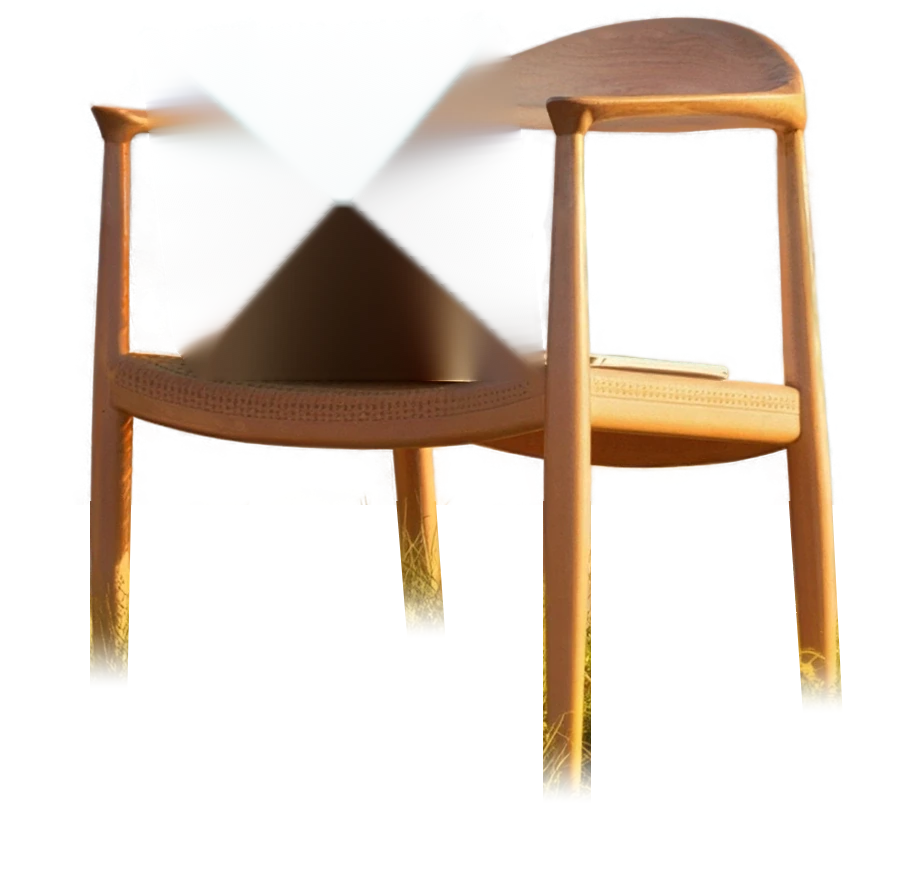
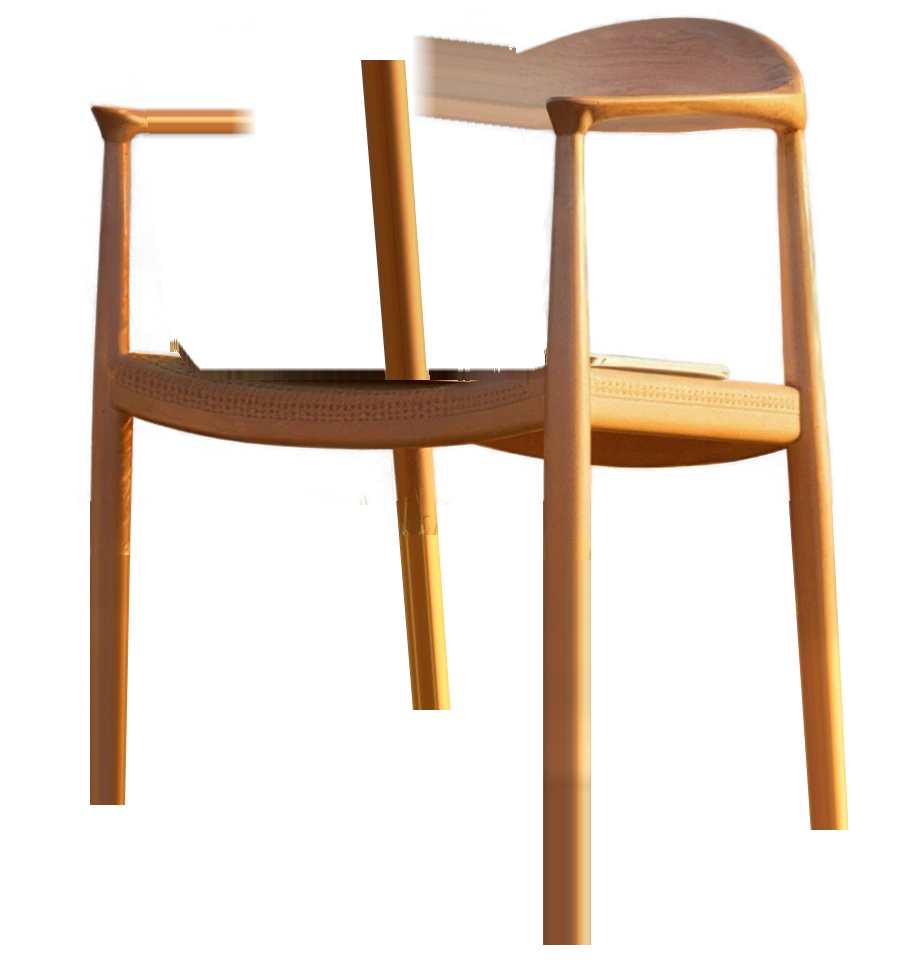
feat(site): make the hero float more noticeable, legs slide out of the grass
Roughly triple the float and speed it up a little. To keep the bigger motion
clean, the chair legs are now solid wood down into the hill, with a static
layer of the grass in front of them on top (hero-grass-front.webp), so they
slide in and out of the grass instead of dragging blades along. The area
behind the laptop now shows what is really there: sky, a strip of seat, the
left rear post, and the armrest and back rail running behind it.

diff --git a/docs/index.html b/docs/index.html
@@ -435,7 +435,9 @@
          Each drifts on its own slow curve: X, Y and tilt run as separate
          properties (transform / translate / rotate) with unrelated
          durations, so the path never quite repeats. The laptop is nested in
-         the chair so it rides along and only ever lifts off the seat. */
+         the chair so it rides along and only ever lifts off the seat. A
+         static layer of the grass in front of the legs sits on top, so the
+         legs slide in and out of the hill. */
       .hero-scene {
         position: absolute;
         bottom: 0;
@@ -449,28 +451,35 @@
         left: calc(1600 / 4096 * 100%);
         top: 0;
         width: calc(920 / 4096 * 100%);
-        transform-origin: 50% 85%;
+        transform-origin: 50% 78%;
         animation:
-          float-lift-chair 14s ease-in-out infinite alternate,
-          float-sway-chair 23s ease-in-out -11.5s infinite alternate,
-          float-tilt-chair 19s ease-in-out -9.5s infinite alternate;
+          float-lift-chair 9s ease-in-out infinite alternate,
+          float-sway-chair 15s ease-in-out -7.5s infinite alternate,
+          float-tilt-chair 12s ease-in-out -6s infinite alternate;
         will-change: transform, translate, rotate;
       }
-      .hero-chair img {
+      .hero-chair img,
+      .hero-grass-front {
         display: block;
         width: 100%;
         height: auto;
       }
+      .hero-grass-front {
+        position: absolute;
+        left: calc(1580 / 4096 * 100%);
+        top: calc(520 / 2006 * 100%);
+        width: calc(960 / 4096 * 100%);
+      }
       .hero-chair .hero-laptop {
         position: absolute;
         left: calc(130 / 920 * 100%);
-        top: calc(10 / 880 * 100%);
+        top: calc(10 / 960 * 100%);
         width: calc(420 / 920 * 100%);
         transform-origin: 50% 100%;
         animation:
-          float-lift-laptop 11s ease-in-out 2s infinite alternate,
-          float-sway-laptop 17s ease-in-out -8.5s infinite alternate,
-          float-tilt-laptop 13s ease-in-out -6.5s infinite alternate;
+          float-lift-laptop 7s ease-in-out 1s infinite alternate,
+          float-sway-laptop 11s ease-in-out -5.5s infinite alternate,
+          float-tilt-laptop 8.5s ease-in-out -4.25s infinite alternate;
         will-change: transform, translate, rotate;
       }
       @keyframes float-lift-chair {
@@ -478,23 +487,23 @@
           translate: 0 0;
         }
         to {
-          translate: 0 -2.8%;
+          translate: 0 -7.5%;
         }
       }
       @keyframes float-sway-chair {
         from {
-          transform: translateX(-1.1%);
+          transform: translateX(-2.8%);
         }
         to {
-          transform: translateX(1.1%);
+          transform: translateX(2.8%);
         }
       }
       @keyframes float-tilt-chair {
         from {
-          rotate: -0.45deg;
+          rotate: -1.2deg;
         }
         to {
-          rotate: 0.45deg;
+          rotate: 1.2deg;
         }
       }
       @keyframes float-lift-laptop {
@@ -502,23 +511,23 @@
           translate: 0 0;
         }
         to {
-          translate: 0 -6%;
+          translate: 0 -14%;
         }
       }
       @keyframes float-sway-laptop {
         from {
-          transform: translateX(-1.6%);
+          transform: translateX(-4%);
         }
         to {
-          transform: translateX(1.6%);
+          transform: translateX(4%);
         }
       }
       @keyframes float-tilt-laptop {
         from {
-          rotate: -0.9deg;
+          rotate: -2.2deg;
         }
         to {
-          rotate: 0.9deg;
+          rotate: 2.2deg;
         }
       }
       .hero-inner {
@@ -1923,7 +1932,7 @@
               <img
                 src="assets/hero-chair.webp"
                 width="920"
-                height="880"
+                height="960"
                 alt=""
                 decoding="async"
               />
@@ -1936,6 +1945,14 @@
                 decoding="async"
               />
             </div>
+            <img
+              class="hero-grass-front"
+              src="assets/hero-grass-front.webp"
+              width="960"
+              height="560"
+              alt=""
+              decoding="async"
+            />
           </div>
         </div>
         <div class="hero-inner">
